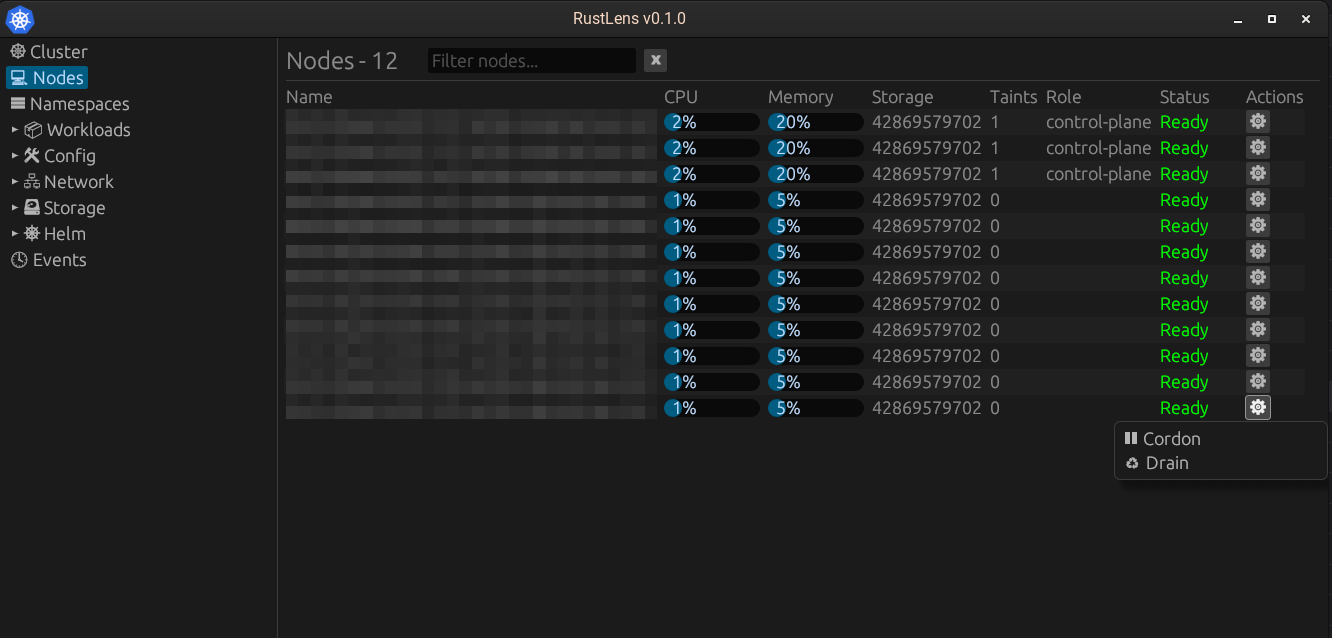
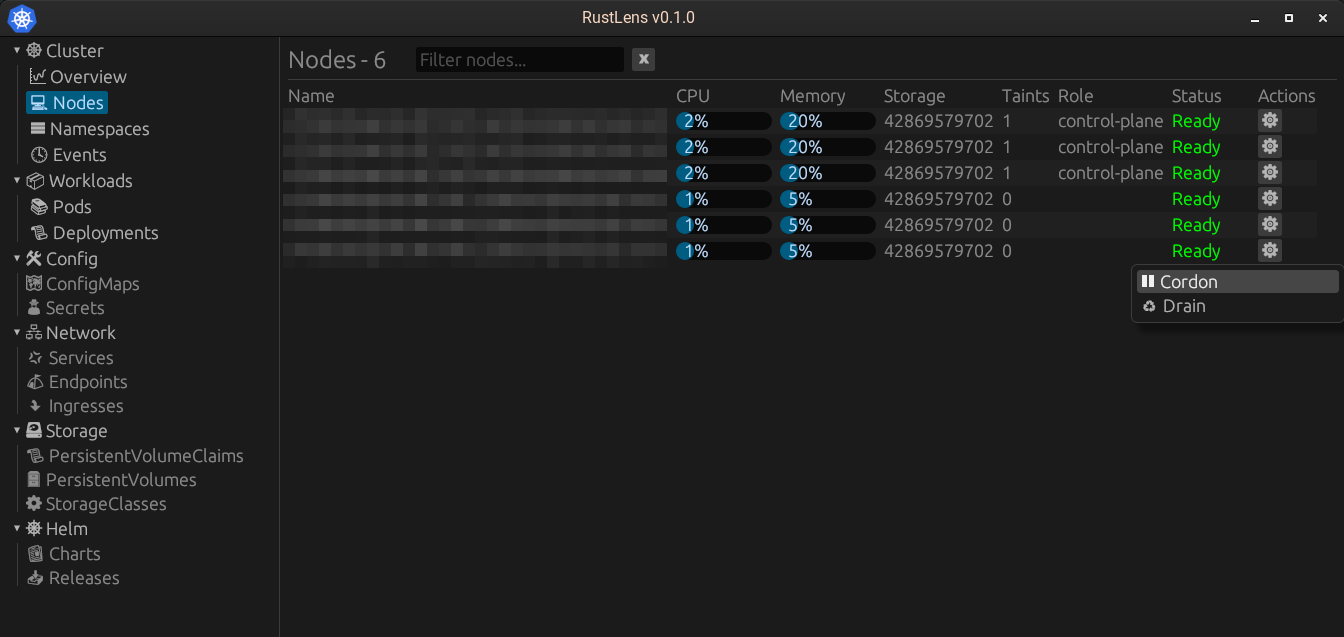
added delete pod option

diff --git a/src/main.rs b/src/main.rs
@@ -12,7 +12,7 @@ const ICON_BYTES: &[u8] = include_bytes!("../assets/icon.png");
 
 #[derive(PartialEq, Clone)]
 enum Category {
-    Cluster,
+    ClusterOverview,
     Nodes,
     Namespaces,
     Pods,
@@ -75,7 +75,7 @@ async fn main() {
     let namespaces = Arc::new(Mutex::new(Vec::<NamespaceItem>::new()));
     let ns_clone = Arc::clone(&namespaces);
 
-    let selected_category = Arc::new(Mutex::new(Category::Cluster));
+    let selected_category = Arc::new(Mutex::new(Category::ClusterOverview));
     let selected_category_ui = Arc::clone(&selected_category);
 
     let selected_namespace = Arc::new(Mutex::new(None::<String>));
@@ -153,19 +153,25 @@ async fn main() {
         egui::SidePanel::left("tasks panel").resizable(false).exact_width(280.0).show(ctx, |ui| {
             let current = selected_category_ui.lock().unwrap().clone();
 
-            if ui.selectable_label(*selected_category_ui.lock().unwrap() == Category::Cluster,"☸ Cluster",).clicked() {
-                *selected_category_ui.lock().unwrap() = Category::Cluster;
-            }
+            egui::CollapsingHeader::new("☸ Cluster").default_open(true).show(ui, |ui| {
+                if ui.selectable_label(*selected_category_ui.lock().unwrap() == Category::ClusterOverview,"🗠 Overview",).clicked() {
+                    *selected_category_ui.lock().unwrap() = Category::ClusterOverview;
+                }
 
-            if ui.selectable_label(*selected_category_ui.lock().unwrap() == Category::Nodes,"💻 Nodes",).clicked() {
-                *selected_category_ui.lock().unwrap() = Category::Nodes;
-            }
+                if ui.selectable_label(*selected_category_ui.lock().unwrap() == Category::Nodes,"💻 Nodes",).clicked() {
+                    *selected_category_ui.lock().unwrap() = Category::Nodes;
+                }
 
-            if ui.selectable_label(*selected_category_ui.lock().unwrap() == Category::Namespaces,"☰ Namespaces",).clicked() {
-                *selected_category_ui.lock().unwrap() = Category::Namespaces;
-            }
+                if ui.selectable_label(*selected_category_ui.lock().unwrap() == Category::Namespaces,"☰ Namespaces",).clicked() {
+                    *selected_category_ui.lock().unwrap() = Category::Namespaces;
+                }
 
-            egui::CollapsingHeader::new("📦 Workloads").default_open(false).show(ui, |ui| {
+                if ui.selectable_label(*selected_category_ui.lock().unwrap() == Category::Events,"🕓 Events",).clicked() {
+                    *selected_category_ui.lock().unwrap() = Category::Events;
+                }
+            });
+
+            egui::CollapsingHeader::new("📦 Workloads").default_open(true).show(ui, |ui| {
                 if ui.selectable_label(current == Category::Pods, "📚 Pods").clicked() {
                     *selected_category_ui.lock().unwrap() = Category::Pods;
                 }
@@ -175,37 +181,33 @@ async fn main() {
                 }
             });
 
-            egui::CollapsingHeader::new("🛠 Config").default_open(false).show(ui, |ui| {
+            egui::CollapsingHeader::new("🛠 Config").default_open(true).show(ui, |ui| {
                 ui.label("🗺 ConfigMaps");
                 ui.label("🕵 Secrets");
             });
 
-            egui::CollapsingHeader::new("🖧 Network").default_open(false).show(ui, |ui| {
+            egui::CollapsingHeader::new("🖧 Network").default_open(true).show(ui, |ui| {
                 ui.label("💢 Services");
                 ui.label("⛺ Endpoints");
                 ui.label("⤵ Ingresses");
             });
 
-            egui::CollapsingHeader::new("🖴 Storage").default_open(false).show(ui, |ui| {
+            egui::CollapsingHeader::new("🖴 Storage").default_open(true).show(ui, |ui| {
                 ui.label("📃 PersistentVolumeClaims");
                 ui.label("🗄 PersistentVolumes");
                 ui.label("⛭ StorageClasses");
             });
 
-            egui::CollapsingHeader::new("⎈ Helm").default_open(false).show(ui, |ui| {
+            egui::CollapsingHeader::new("⎈ Helm").default_open(true).show(ui, |ui| {
                 ui.label("📰 Charts");
                 ui.label("📥 Releases");
             });
-
-            if ui.selectable_label(*selected_category_ui.lock().unwrap() == Category::Events,"🕓 Events",).clicked() {
-                *selected_category_ui.lock().unwrap() = Category::Events;
-            }
         });
 
         egui::CentralPanel::default().show(ctx, |ui| {
             match *selected_category_ui.lock().unwrap() {
-                Category::Cluster => {
-                    ui.heading("Cluster (TODO)");
+                Category::ClusterOverview => {
+                    ui.heading("Cluster Overview (TODO)");
                 },
                 Category::Nodes => {
                     ui.horizontal(|ui| {
@@ -351,9 +353,10 @@ async fn main() {
                             filter_pods.clear();
                         }
                     });
-
                     ui.separator();
+
                     let pod = pods.lock().unwrap();
+
                     egui::ScrollArea::vertical().id_salt("pods_scroll").show(ui, |ui| {
                         egui::Grid::new("pods_grid").striped(true).min_col_width(20.0).show(ui, |ui| {
                             ui.label("Name");
@@ -362,8 +365,20 @@ async fn main() {
                             for item in pod.iter() {
                                 let cur_item_name = &item.name;
                                 if filter_pods.is_empty() || cur_item_name.contains(&filter_pods) {
+                                    let pod_name = item.name.clone();
                                     ui.label(&item.name);
-                                    let _ = ui.button("⚙");
+                                    ui.menu_button("⚙", |ui| {
+                                        ui.set_width(200.0);
+                                        if ui.button("🗑 Delete").clicked() {
+                                            let cur_ns = selected_ns.clone();
+                                            tokio::spawn(async move {
+                                                if let Err(err) = delete_pod(&pod_name, cur_ns.as_deref(), true).await {
+                                                    eprintln!("Failed to delete pod: {}", err);
+                                                }
+                                            });
+                                            ui.close_menu();
+                                        }
+                                    });
                                     ui.end_row();
                                 }
                             }

diff --git a/src/functions.rs b/src/functions.rs
@@ -4,7 +4,7 @@ use k8s_openapi::api::core::v1::{Namespace, Node, Pod, Event};
 use std::sync::{Arc, Mutex};
 use futures_util::StreamExt;
 use serde_json::json;
-use kube::api::{Patch, PatchParams, ListParams, DeleteParams};
+use kube::api::{Patch, PatchParams, ListParams, DeleteParams, PropagationPolicy};
 //use k8s_metrics::v1beta1::NodeMetrics;
 //use k8s_openapi::apimachinery::pkg::api::resource::Quantity;
 
@@ -20,6 +20,23 @@ pub async fn cordon_node(node_name: &str, cordoned: bool) -> Result<(), kube::Er
     let nodes: Api<Node> = Api::all(client);
     let patch = json!({ "spec": { "unschedulable": cordoned } });
     nodes.patch(node_name, &PatchParams::apply("rustlens"), &Patch::Merge(&patch)).await?;
+    Ok(())
+}
+
+pub async fn delete_pod(pod_name: &str, namespace: Option<&str>, force: bool) -> Result<(), kube::Error> {
+    let client = Client::try_default().await?;
+    let ns = namespace.unwrap_or("default");
+    let pods: Api<Pod> = Api::namespaced(client, ns);
+    let dp = if force {
+        DeleteParams {
+            grace_period_seconds: Some(0),
+            propagation_policy: Some(PropagationPolicy::Background),
+            ..DeleteParams::default()
+        }
+    } else {
+        DeleteParams::default()
+    };
+    pods.delete(pod_name, &dp).await?;
     Ok(())
 }
 
